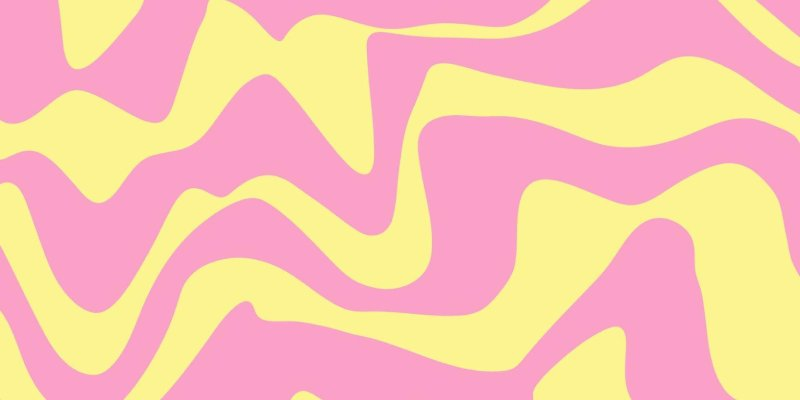
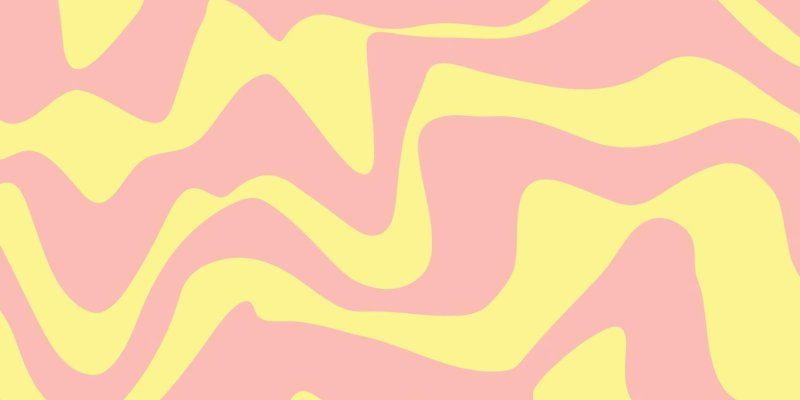
refactor: update Animal component to enhance mood handling and improve image rendering

diff --git a/src/components/pet/Screen/Animal.tsx b/src/components/pet/Screen/Animal.tsx
@@ -3,14 +3,19 @@ import { type Moods, SLEEPLENGTH } from '../../../const/rules';
 import { GameState } from '../../../store/gameSlice';
 
 export const Animal = (props: { gameState: GameState }) => {
-    const { hunger, sleep, health, stage, action } = props.gameState;
-    const image = useMemo(() => {
+    const { hunger, sleep, stage, action } = props.gameState;
+
+    const mood: Moods = useMemo(() => {
         let mood: Moods = 'normal';
         if (sleep <= SLEEPLENGTH || hunger <= 1) mood = 'sad';
         if (action?.type === 'bath') mood = 'normal';
         else if (action?.type) mood = action.type;
+        return mood;
+    }, [hunger, sleep, action]);
+
+    const image = useMemo(() => {
         return `/assets/pets/${String(stage)}/${mood}.png`;
-    }, [hunger, sleep, health, stage, action]);
+    }, [mood, stage]);
 
     const petSize = useMemo(() => {
         if (stage === 1) return 8;
@@ -23,6 +28,6 @@ export const Animal = (props: { gameState: GameState }) => {
     }, [petSize]);
 
     return (
-        <img className={`pet ${action?.type}`} style={petStyle} src={image} alt="Pet" />
+        <img className={`pet ${mood}`.trim()} style={petStyle} src={image} alt="Pet" />
     );
 };

diff --git a/src/components/pet/Screen/Screen.scss b/src/components/pet/Screen/Screen.scss
@@ -29,6 +29,10 @@
                     position: absolute;
                     top: 1px;
                 }
+
+                &.normal {
+                    animation: move 4s steps(8, jump-both) infinite alternate;
+                }
             }
 
             &.bg {
@@ -61,5 +65,15 @@
             }
         }
 
+    }
+}
+
+@keyframes move {
+    0% {
+        transform: translateX(-8px);
+    }
+
+    100% {
+        transform: translateX(8px);
     }
 }
